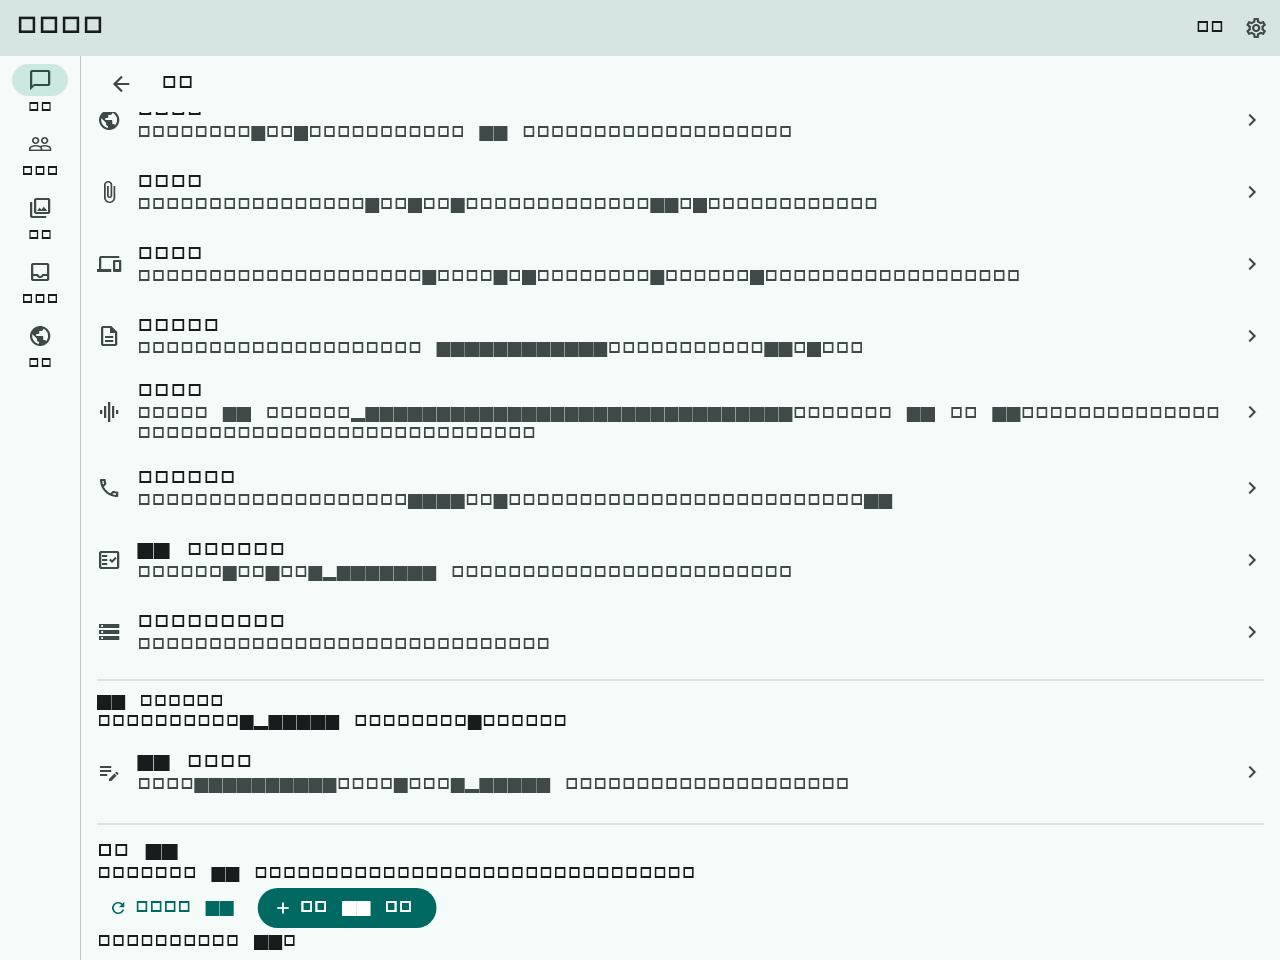
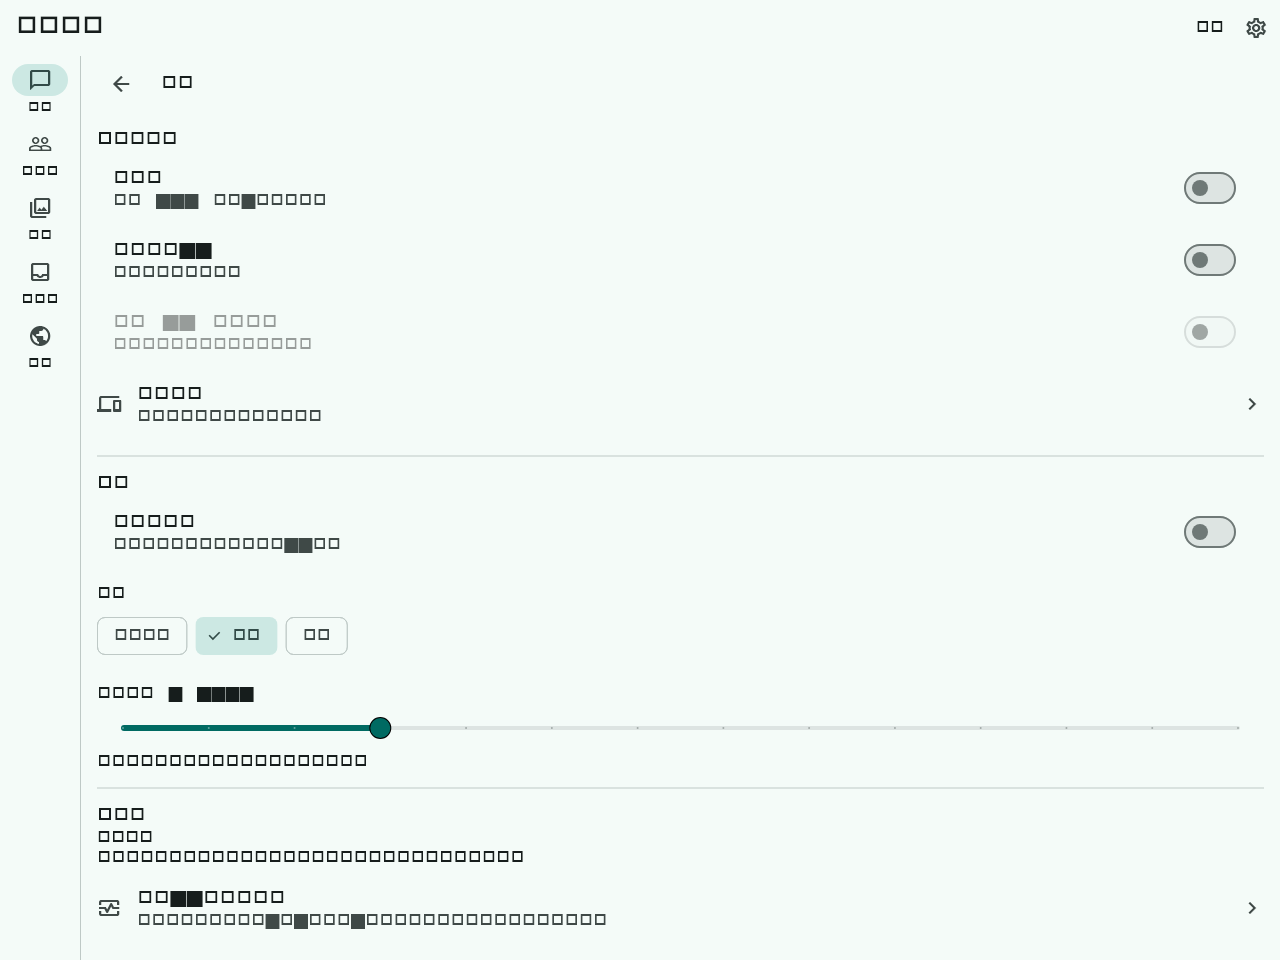
docs(client): recapture device sessions in privacy settings

diff --git a/apps/client_flutter/evidence/device-sessions.md b/apps/client_flutter/evidence/device-sessions.md
@@ -1,98 +1,33 @@
-# Device sessions — application comparison
+# Device sessions: matched application captures
 
-| Capture | Production revision | Result |
+| Capture | Production code revision | Result |
 | --- | --- | --- |
-| [Before](device-sessions-before-e7fdf7d.png) | `e7fdf7d968ca5b358529dffc4321205acf02aff2` | The settings developer group has no device-session entry: the read-only list runs module test → world status → attachments list → attachment metadata, with no tile between world status and attachment metadata. |
-| [After](device-sessions-after-entry.png) | this PR's head (see the PR description) | The same viewport and scroll position now shows the **设备会话** tile in that exact slot. Nothing else in the frame moved. |
-| [After — opened list](device-sessions-after-list.png) | same as After | Follow-on state, **not** part of the before/after pair: the real `DeviceSessionsScreen` after one tap, listing both fixture devices with names and last-used timestamps and one open confirmation panel. |
+| [Before](device-sessions-before-a4de467.png) | `a4de467b861fc260eb02b1eefd8bd053136ba0ef` | Settings opens at the top. Privacy & Security has no device-session entry. |
+| [After](device-sessions-after-entry.png) | `1f0b54d63eddd7cdef4795be17f22335d6ce83e3` | The same Settings view now shows the device-session entry in Privacy & Security, above General. |
+| [Opened list](device-sessions-after-list.png) | `1f0b54d63eddd7cdef4795be17f22335d6ce83e3` | Follow-on state, not part of the matched pair: two synthetic signed-in devices and the confirmation for the phone. |
 
-Both Before/After frames are unedited renders of the production
-`WhaleChatApp` + `ClientRuntime` through a headless Flutter widget render
-(`evidence/device_sessions_capture_test.dart`), Windows Flutter 3.50.0 /
-Dart 3.14.0, 1280 × 960 logical pixels, device pixel ratio 1, light theme,
-font scale 1.0, identical fonts (SimHei for CJK, Material Icons) and the
-**identical dependency lock** (`pubspec.lock` SHA-256
[1 lines of base64/hex data omitted]
-worktrees).
+Both frames are unedited renders of the production `WhaleChatApp` and `ClientRuntime` in the Flutter widget harness. The driver opens Settings through the gear icon and asserts scroll offset 0, light theme, 1280 × 960 logical pixels at DPR 1, font scale 1.0, and the presence of the Privacy & Security and General headings. It asserts zero device requests before entering the page. Afterward it verifies that the complete new tile is visible between those headings. The content below the added row moves down.
 
-## Identical scenario and UI state
+The renders used Flutter 3.50.0 / Dart 3.14.0 on Windows, the same SimHei and Flutter Material Icons files, the same capture driver, and the same dependency lock. All three PNGs decoded at 1280 × 960. Sampling every fourth pixel in both dimensions found 3,936 different samples in the Before/After pair, beginning below the unchanged top part of Settings (sample bounds `(100,384)` to `(1260,928)`). The two After states were also rendered on the committed code revision and matched the recorded PNGs byte for byte.
 
-The driver scrolls the settings list so the pre-existing
-`open-attachment-viewer` tile sits at y = 300 in both frames, then asserts that
-position (`closeTo(300, 1)`) before capturing. The new tile is inserted directly
-above that anchor, so the Before/After pair differs only in the newly added
-region.
-
-Verified pixel diff (every 2nd pixel, both directions): 2051 differing samples,
-bounding box `(98,112)–(1018,284)` — the settings content column, exactly the
-band where the new tile is inserted. No other region changed, which is the
-evidence that the pair is the same scenario, viewport, theme and UI state.
-
-## Fixture and assertions
-
-The driver's `_FixtureConnection` answers `GET /api/v1/auth/devices` with two
-synthetic rows (`device-laptop` / 工作室笔记本 / `2026-11-18T02:03:04.000Z` and
-`device-phone` / 随身手机 / `2026-11-17T10:00:00.000Z`) and asserts the method,
-path, null body and null query. It also asserts:
-
-- zero device reads before the entry is opened;
-- the Before revision has no `open-device-sessions` tile, the After revision has
-  exactly one and it is fully inside the 960-pixel viewport;
-- the opened list performs exactly one read, renders both rows, and opens the
-  confirmation panel for the phone row.
-
-The fixture reports **no** `current` flag, which is what the real host does
-today. That is why the follow-on capture shows the stronger gate (type the
-device name) rather than a plain confirm — an honest reflection of the host
-contract, not a mock of a richer one.
-
-## Hashes
-
-| Artefact | SHA-256 |
+| Artifact | SHA-256 |
 | --- | --- |
[13 lines of base64/hex data omitted]
 
-All three PNGs decode at exactly 1280 × 960, 32-bit ARGB, and contain
-non-uniform content (22/23/27 distinct colours in a sparse sample), i.e. they
-are real renders rather than blank frames.
+## Reproduce
 
-## How to reproduce
+Create detached worktrees at the two revisions above, put the same [driver](device_sessions_capture_test.dart) in each app's `evidence` directory, and run `flutter pub get --offline` from `apps/client_flutter`. Use the same viewport and font files:
 
-```
-# After (this branch)
-cd apps/client_flutter
-flutter test --no-pub evidence/device_sessions_capture_test.dart \
-  --dart-define=CAPTURE_PATH=<abs png> \
-  --dart-define=CAPTURE_CJK_FONT=C:\Windows\Fonts\simhei.ttf \
-  --dart-define=CAPTURE_ICON_FONT=...\materialicons-regular.otf
-# add --dart-define=CAPTURE_STAGE=list for the follow-on frame
-
-# Before (detached worktree at e7fdf7d, same driver copied in)
-git worktree add --detach <dest> e7fdf7d
-# then the same command with the default CAPTURE_STAGE=settings
+```text
+flutter test --no-pub evidence/device_sessions_capture_test.dart --dart-define=CAPTURE_PATH=<absolute PNG path> --dart-define=CAPTURE_CJK_FONT=<SimHei TTF path> --dart-define=CAPTURE_ICON_FONT=<Flutter MaterialIcons-Regular.otf path>
 ```
 
-## Limits (explicit, not overclaiming)
+Leave `CAPTURE_EXPECT_ENTRY` unset on the Before revision; add `--dart-define=CAPTURE_EXPECT_ENTRY=true` on the After revision. Add `--dart-define=CAPTURE_STAGE=list` to render the separate opened state. It asserts one device read, both fixture rows, and the confirmation panel without submitting it.
 
-- These are **widget-harness renders with a fixture connection**. No Windows or
-  Android device, no live host, no real native window capture.
-- **No real revocation was exercised.** The fixture never answers the revoke
-  route, so the captures show the list and the confirmation gate only. Host-side
-  revoke semantics are covered by existing host tests, not by this evidence.
-- The device list is synthetic; the "current device" state is not shown because
-  the host's `GET /auth/devices` response has no current-device field. The
-  stronger gate shown here is the client's honest fallback for that gap.
-- No Android device was signed off, no accessibility/contrast review was done,
-  and no human visual approval was obtained (the agent session had no image
-  input; validation was programmatic: dimensions, colour variance, hashes and
-  the pixel-diff bounding box above).
-- This is a client surface over existing host routes. It changes no host
-  behaviour, adds no session policy, no re-authentication prompt and no device
-  acceptance, and it does not complete AC-02 or AC-32.
+## Limits
+
+These are widget-harness renders with a fixture connection, not live-host, accessibility, visual sign-off, or Windows/Android device acceptance. The fixture lists two synthetic devices but does not revoke either. The real host does not report which entry is current; this is why the screen asks for the device name for every sign-off when current-device status is unknown. The real-host revocation and cross-device acceptance remain unverified in this slice. No production host behavior or session policy changed.
